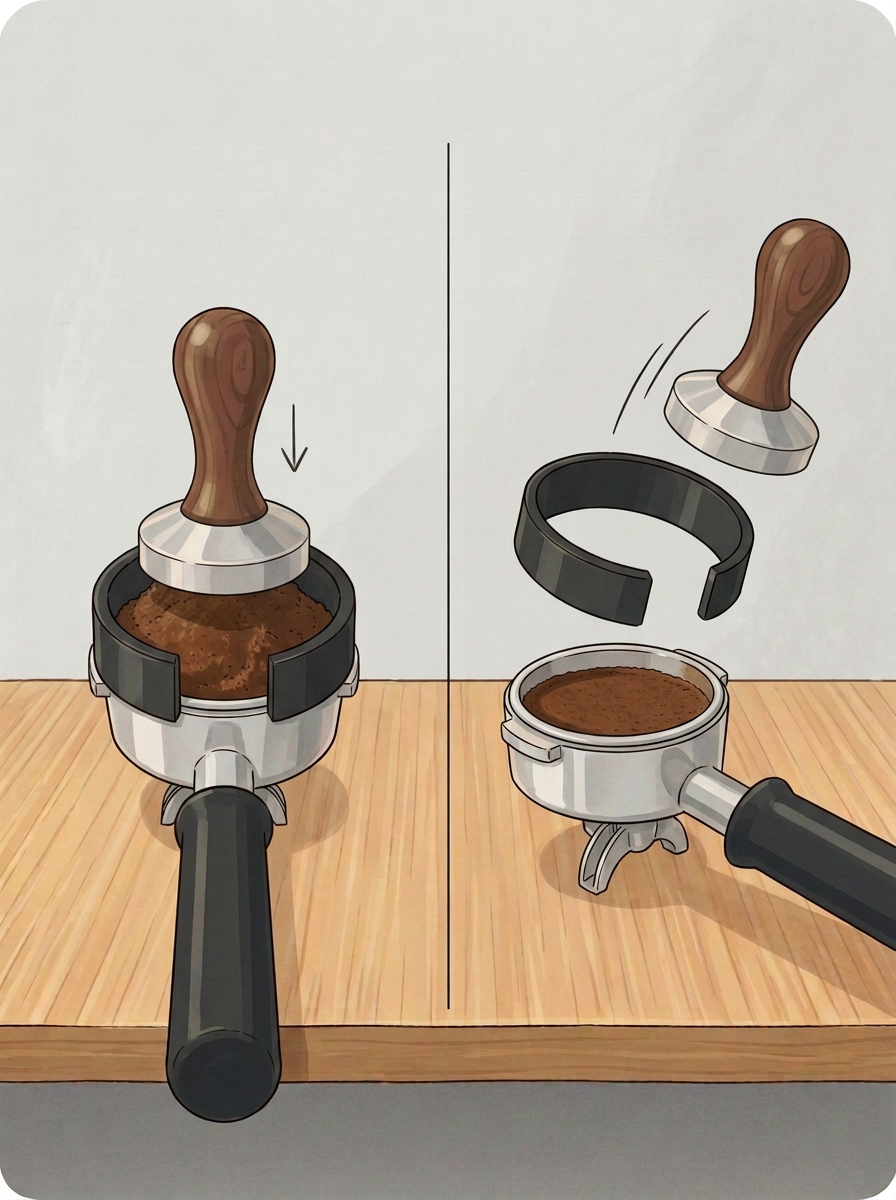
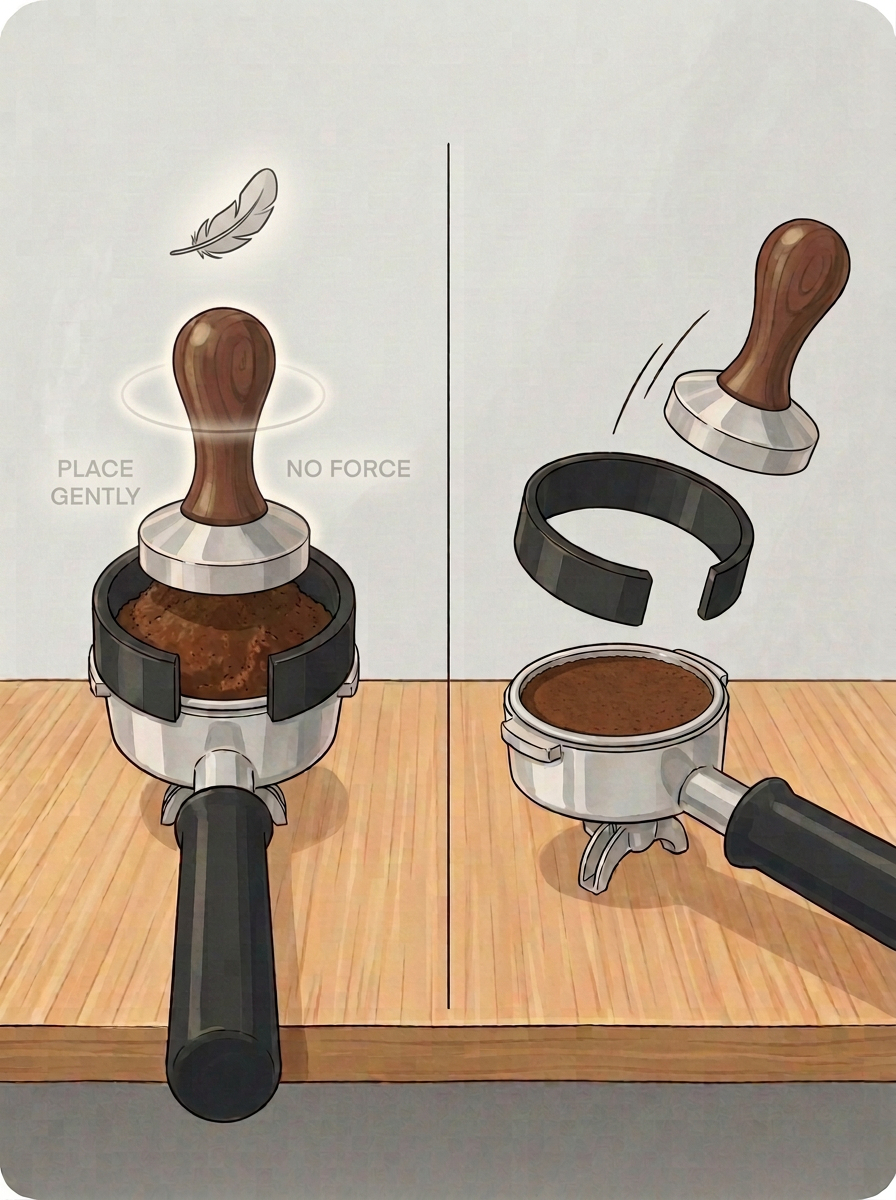
* added another image *

diff --git a/src/data/steps.ts b/src/data/steps.ts
@@ -202,7 +202,7 @@ export const steps: Step[] = [
     image: '/images/pre-tamp.jpg',
     imageRatio: '3/4',
     imageAlt:
-      'Two panels. Left: the tamper pressing down on the grounds inside the funnel. Right: the tamper and funnel lifted off, the grounds sitting below the basket rim.',
+      'Two panels. Left: the tamper resting on the grounds inside the funnel, with a feather above it and the words “place gently, no force”. Right: the tamper and funnel lifted off, the grounds sitting below the basket rim.',
   },
   {
     id: 'level',
@@ -213,7 +213,10 @@ export const steps: Step[] = [
       'Lift it off.',
     ],
     tips: ['The leveler’s depth is already set. Only change it when dialing in a new bean.'],
-    imageAlt: 'The leveler sitting on the basket rim.',
+    image: '/images/level.jpg',
+    imageRatio: '3/4',
+    imageAlt:
+      'The leveler set down on the basket, with arrows showing it spun around on the rim and then lifted straight off.',
   },
   {
     id: 'tamp',
